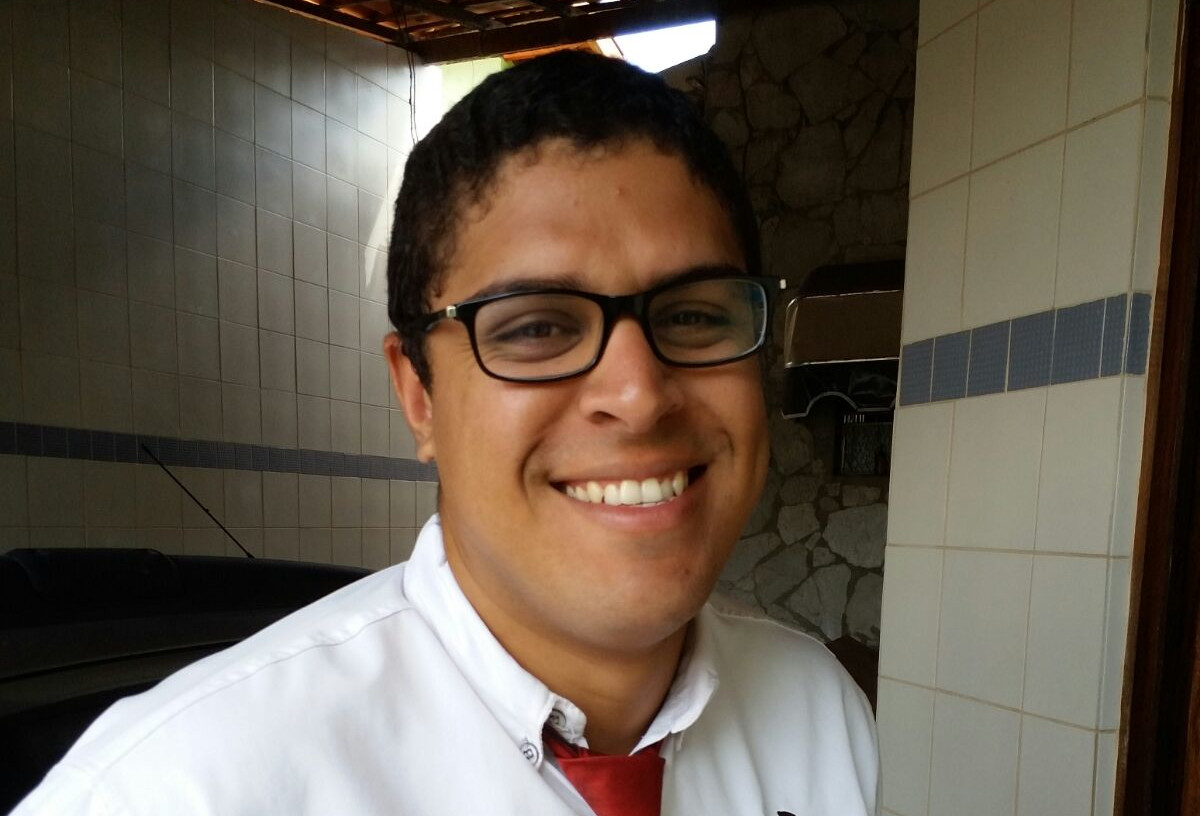
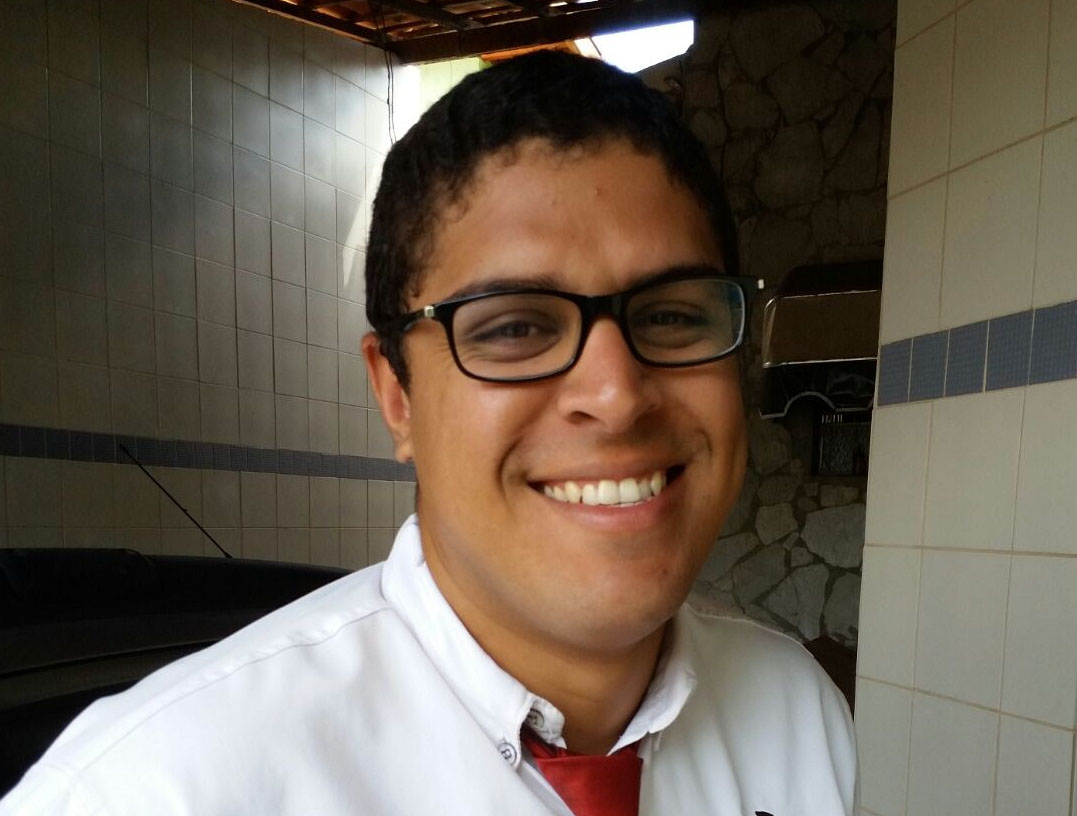
mudando a resolução da foto

diff --git a/css/style.css b/css/style.css
@@ -116,7 +116,7 @@ main > #about{
 main > #about > img{
     max-width: 500px;
     border: transparent;
-    border-radius: 90%;
+    border-radius: 40%;
 }
 
 main > #about > #about-texto{
